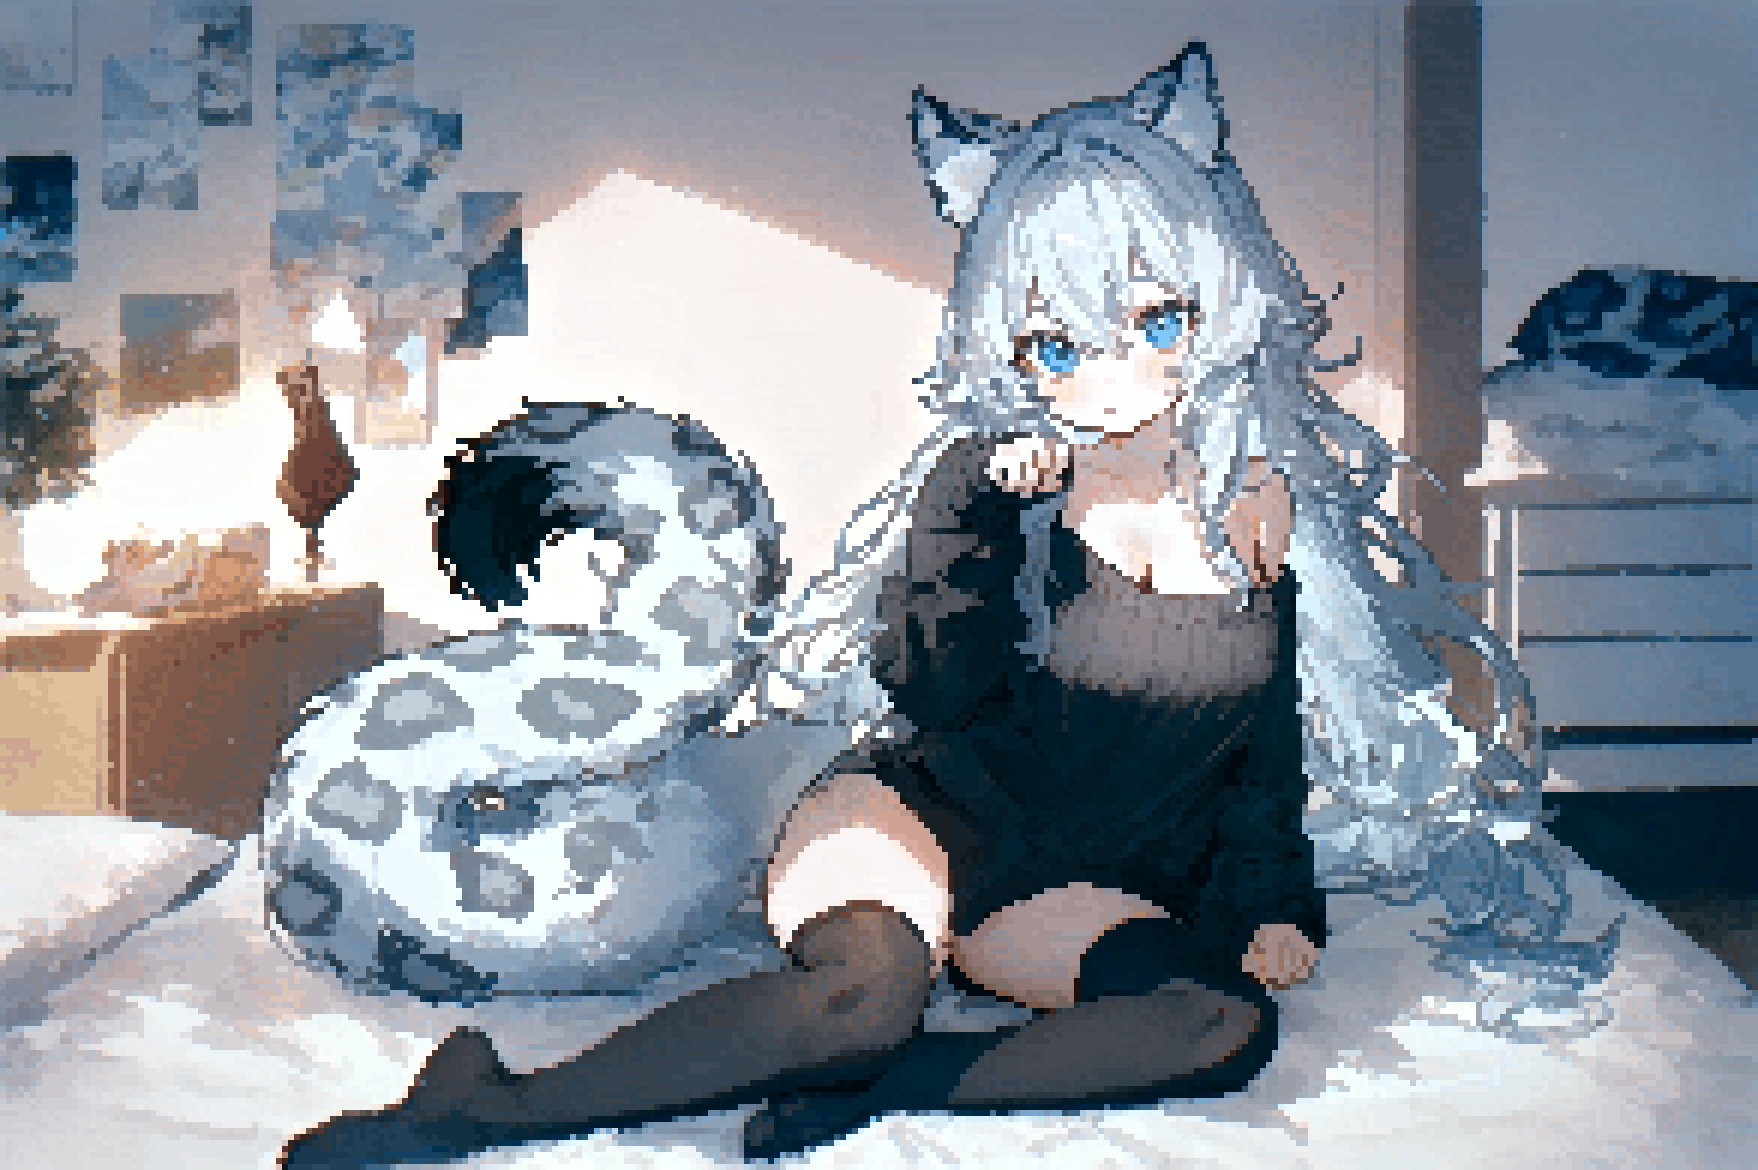
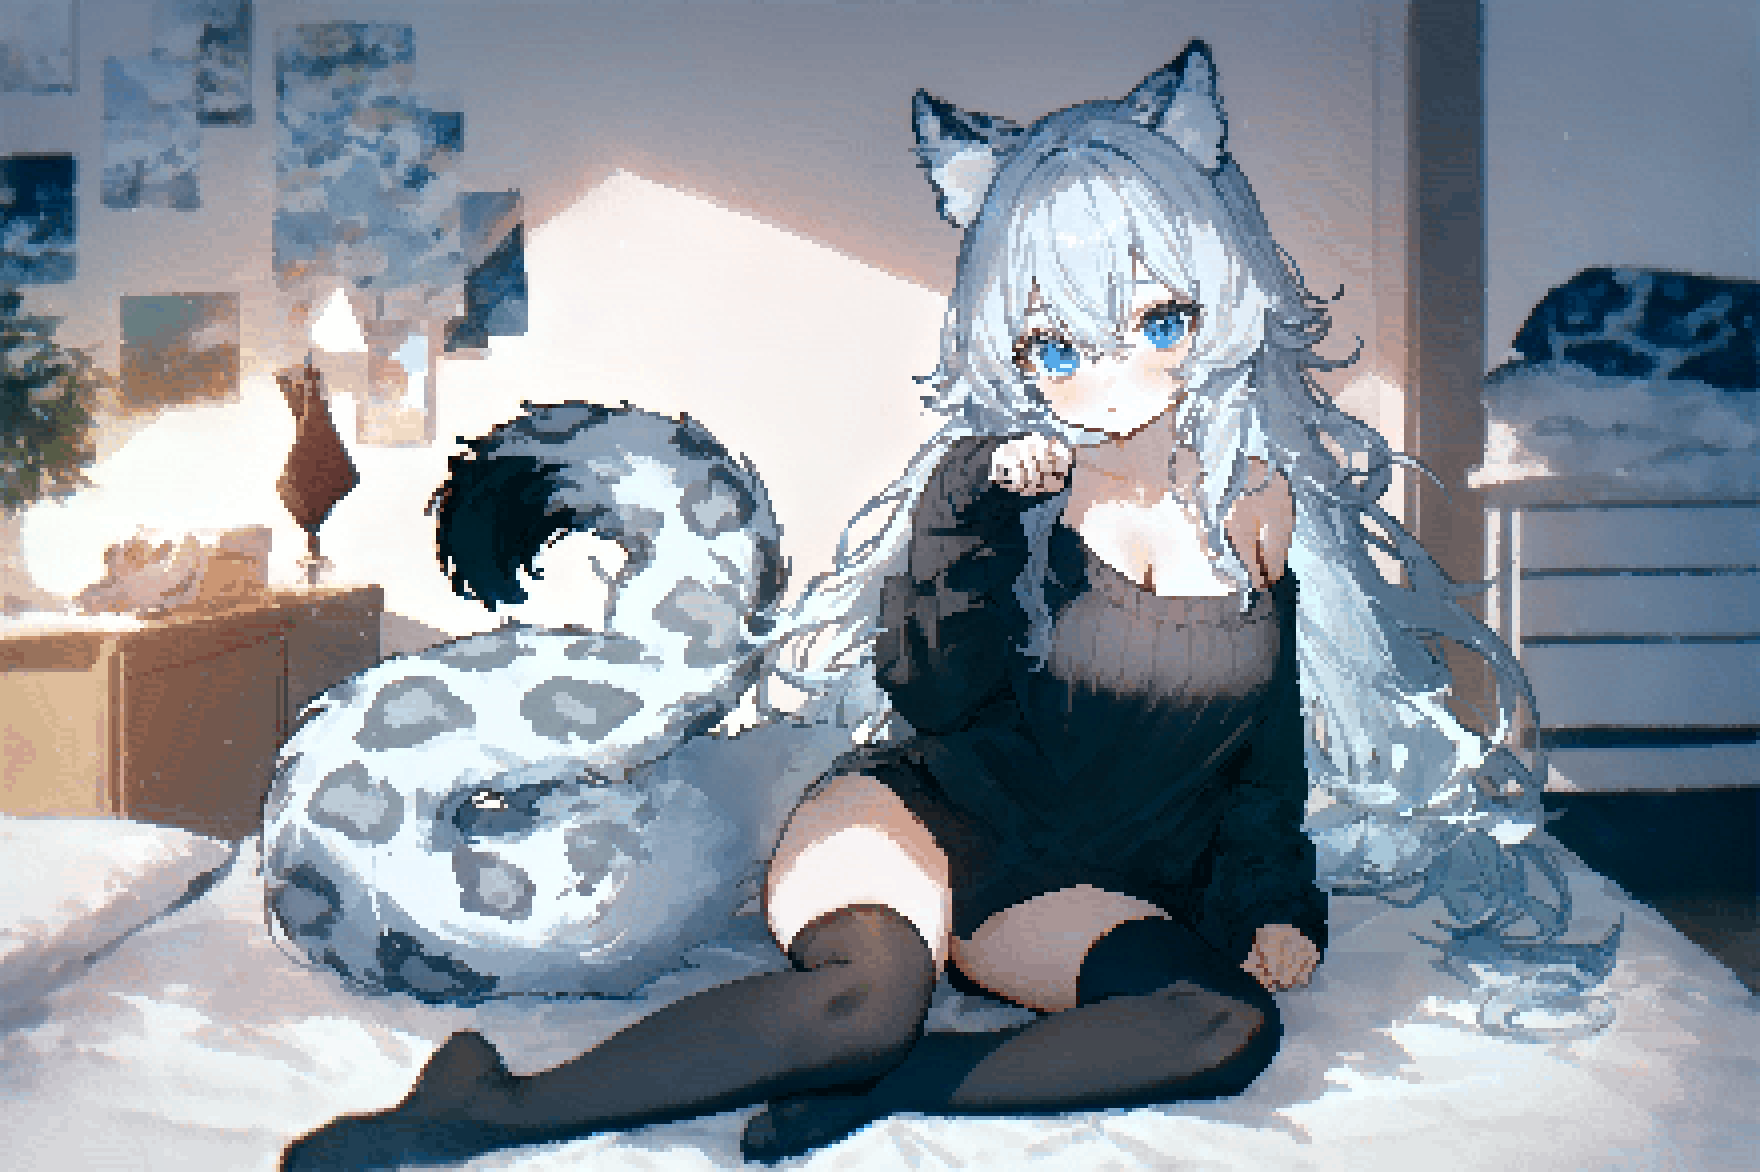
Update demos for FP16 and batch

diff --git a/demo-torch.py b/demo-torch.py
@@ -13,29 +13,31 @@ if __name__ == "__main__":
 
     img = Image.open("./img/snow-leopard.png")
 
-    img_t = to_tensor(img).cuda()
+    img_t = to_tensor(img).cuda().half()[None]
     oe_t, w = outline_expansion(img_t, 6, 6, 8, 10, 3)
-    oe = Image.fromarray(to_numpy(oe_t))
+    oe = Image.fromarray(to_numpy(oe_t)[0])
     oe.save("./img/snow-leopard-oe-orig.png")
 
-    patch_size = 6
-    target_size = 240
-    thickness = 4
+    patch_size = 4
+    target_size = 360
+    thickness = 3
 
-    img_t = pre_resize(img, target_size=target_size, patch_size=patch_size).cuda()
+    img_t = (
+        pre_resize(img, target_size=target_size, patch_size=patch_size).cuda().half()
+    )
 
     dilate_t = dilate_cont(img_t, KERNELS[thickness], 1)
-    dilate_img = Image.fromarray(to_numpy(dilate_t))
+    dilate_img = Image.fromarray(to_numpy(dilate_t)[0])
     dilate_img.save("./img/snow-leopard-dilate.png")
 
     erode_t = erode_cont(img_t, KERNELS[thickness], 1)
-    erode_img = Image.fromarray(to_numpy(erode_t))
+    erode_img = Image.fromarray(to_numpy(erode_t)[0])
     erode_img.save("./img/snow-leopard-erode.png")
 
     oe_t, w = outline_expansion(img_t, thickness, thickness, patch_size, 10, 3)
-    oe = Image.fromarray(to_numpy(oe_t))
+    oe = Image.fromarray(to_numpy(oe_t)[0])
     oe.save("./img/snow-leopard-oe.png")
-    w = Image.fromarray(w.cpu().numpy().clip(0, 1) * 255).convert("L")
+    w = Image.fromarray(w[0, 0].float().cpu().numpy().clip(0, 1) * 255).convert("L")
     w.save("./img/snow-leopard-w.png")
 
     pixel_art_t = pixelize_pytorch(
@@ -45,7 +47,7 @@ if __name__ == "__main__":
         thickness=thickness,
         do_color_match=True,
     )
-    pixel_art = Image.fromarray(to_numpy(pixel_art_t))
+    pixel_art = Image.fromarray(to_numpy(pixel_art_t)[0])
     pixel_art.save("./img/snow-leopard-pixel.png")
 
     pixel_art_t = pixelize_pytorch(
@@ -58,7 +60,7 @@ if __name__ == "__main__":
         K=256,
         quant_mode="",
     )
-    pixel_art = Image.fromarray(to_numpy(pixel_art_t))
+    pixel_art = Image.fromarray(to_numpy(pixel_art_t)[0])
     pixel_art.save("./img/snow-leopard-pixel-256c.png")
 
     pixel_art_t = pixelize_pytorch(
@@ -71,7 +73,7 @@ if __name__ == "__main__":
         K=256,
         quant_mode="ordered",
     )
-    pixel_art = Image.fromarray(to_numpy(pixel_art_t))
+    pixel_art = Image.fromarray(to_numpy(pixel_art_t)[0])
     pixel_art.save("./img/snow-leopard-pixel-256c-d.png")
 
     pixel_art_t = pixelize_pytorch(
@@ -84,7 +86,7 @@ if __name__ == "__main__":
         K=256,
         quant_mode="error_diffusion",
     )
-    pixel_art = Image.fromarray(to_numpy(pixel_art_t))
+    pixel_art = Image.fromarray(to_numpy(pixel_art_t)[0])
     pixel_art.save("./img/snow-leopard-pixel-256c-ed.png")
 
     pixel_art_t = pixelize_pytorch(
@@ -94,7 +96,7 @@ if __name__ == "__main__":
         thickness=3,
         do_color_match=True,
     )
-    pixel_art = Image.fromarray(to_numpy(pixel_art_t))
+    pixel_art = Image.fromarray(to_numpy(pixel_art_t)[0])
     pixel_art.save("./img/snow-leopard-pixel-lg.png")
 
     pixel_art_t = pixelize_pytorch(
@@ -107,7 +109,7 @@ if __name__ == "__main__":
         K=256,
         quant_mode="",
     )
-    pixel_art = Image.fromarray(to_numpy(pixel_art_t))
+    pixel_art = Image.fromarray(to_numpy(pixel_art_t)[0])
     pixel_art.save("./img/snow-leopard-pixel-lg-256c.png")
 
     pixel_art_t = pixelize_pytorch(
@@ -120,7 +122,7 @@ if __name__ == "__main__":
         K=256,
         quant_mode="ordered",
     )
-    pixel_art = Image.fromarray(to_numpy(pixel_art_t))
+    pixel_art = Image.fromarray(to_numpy(pixel_art_t)[0])
     pixel_art.save("./img/snow-leopard-pixel-lg-256c-d.png")
 
     pixel_art_t = pixelize_pytorch(
@@ -133,7 +135,7 @@ if __name__ == "__main__":
         K=256,
         quant_mode="error_diffusion",
     )
-    pixel_art = Image.fromarray(to_numpy(pixel_art_t))
+    pixel_art = Image.fromarray(to_numpy(pixel_art_t)[0])
     pixel_art.save("./img/snow-leopard-pixel-lg-256c-ed.png")
 
     print("Start speed test:")
@@ -141,9 +143,18 @@ if __name__ == "__main__":
     print(f"  {patch_size=}")
     print(f"  {thickness=}")
     print(f"  {TORCH_COMPILE=}")
+    # Warmup
+    pixelize_pytorch(
+        img_t.repeat(8, 1, 1, 1),
+        target_size=target_size,
+        patch_size=patch_size,
+        thickness=thickness,
+        do_color_match=False,
+        do_quant=False,
+    )
     for _ in trange(500, smoothing=0.01):
         pixel_art_t = pixelize_pytorch(
-            img_t,
+            img_t.repeat(8, 1, 1, 1),
             target_size=target_size,
             patch_size=patch_size,
             thickness=thickness,
